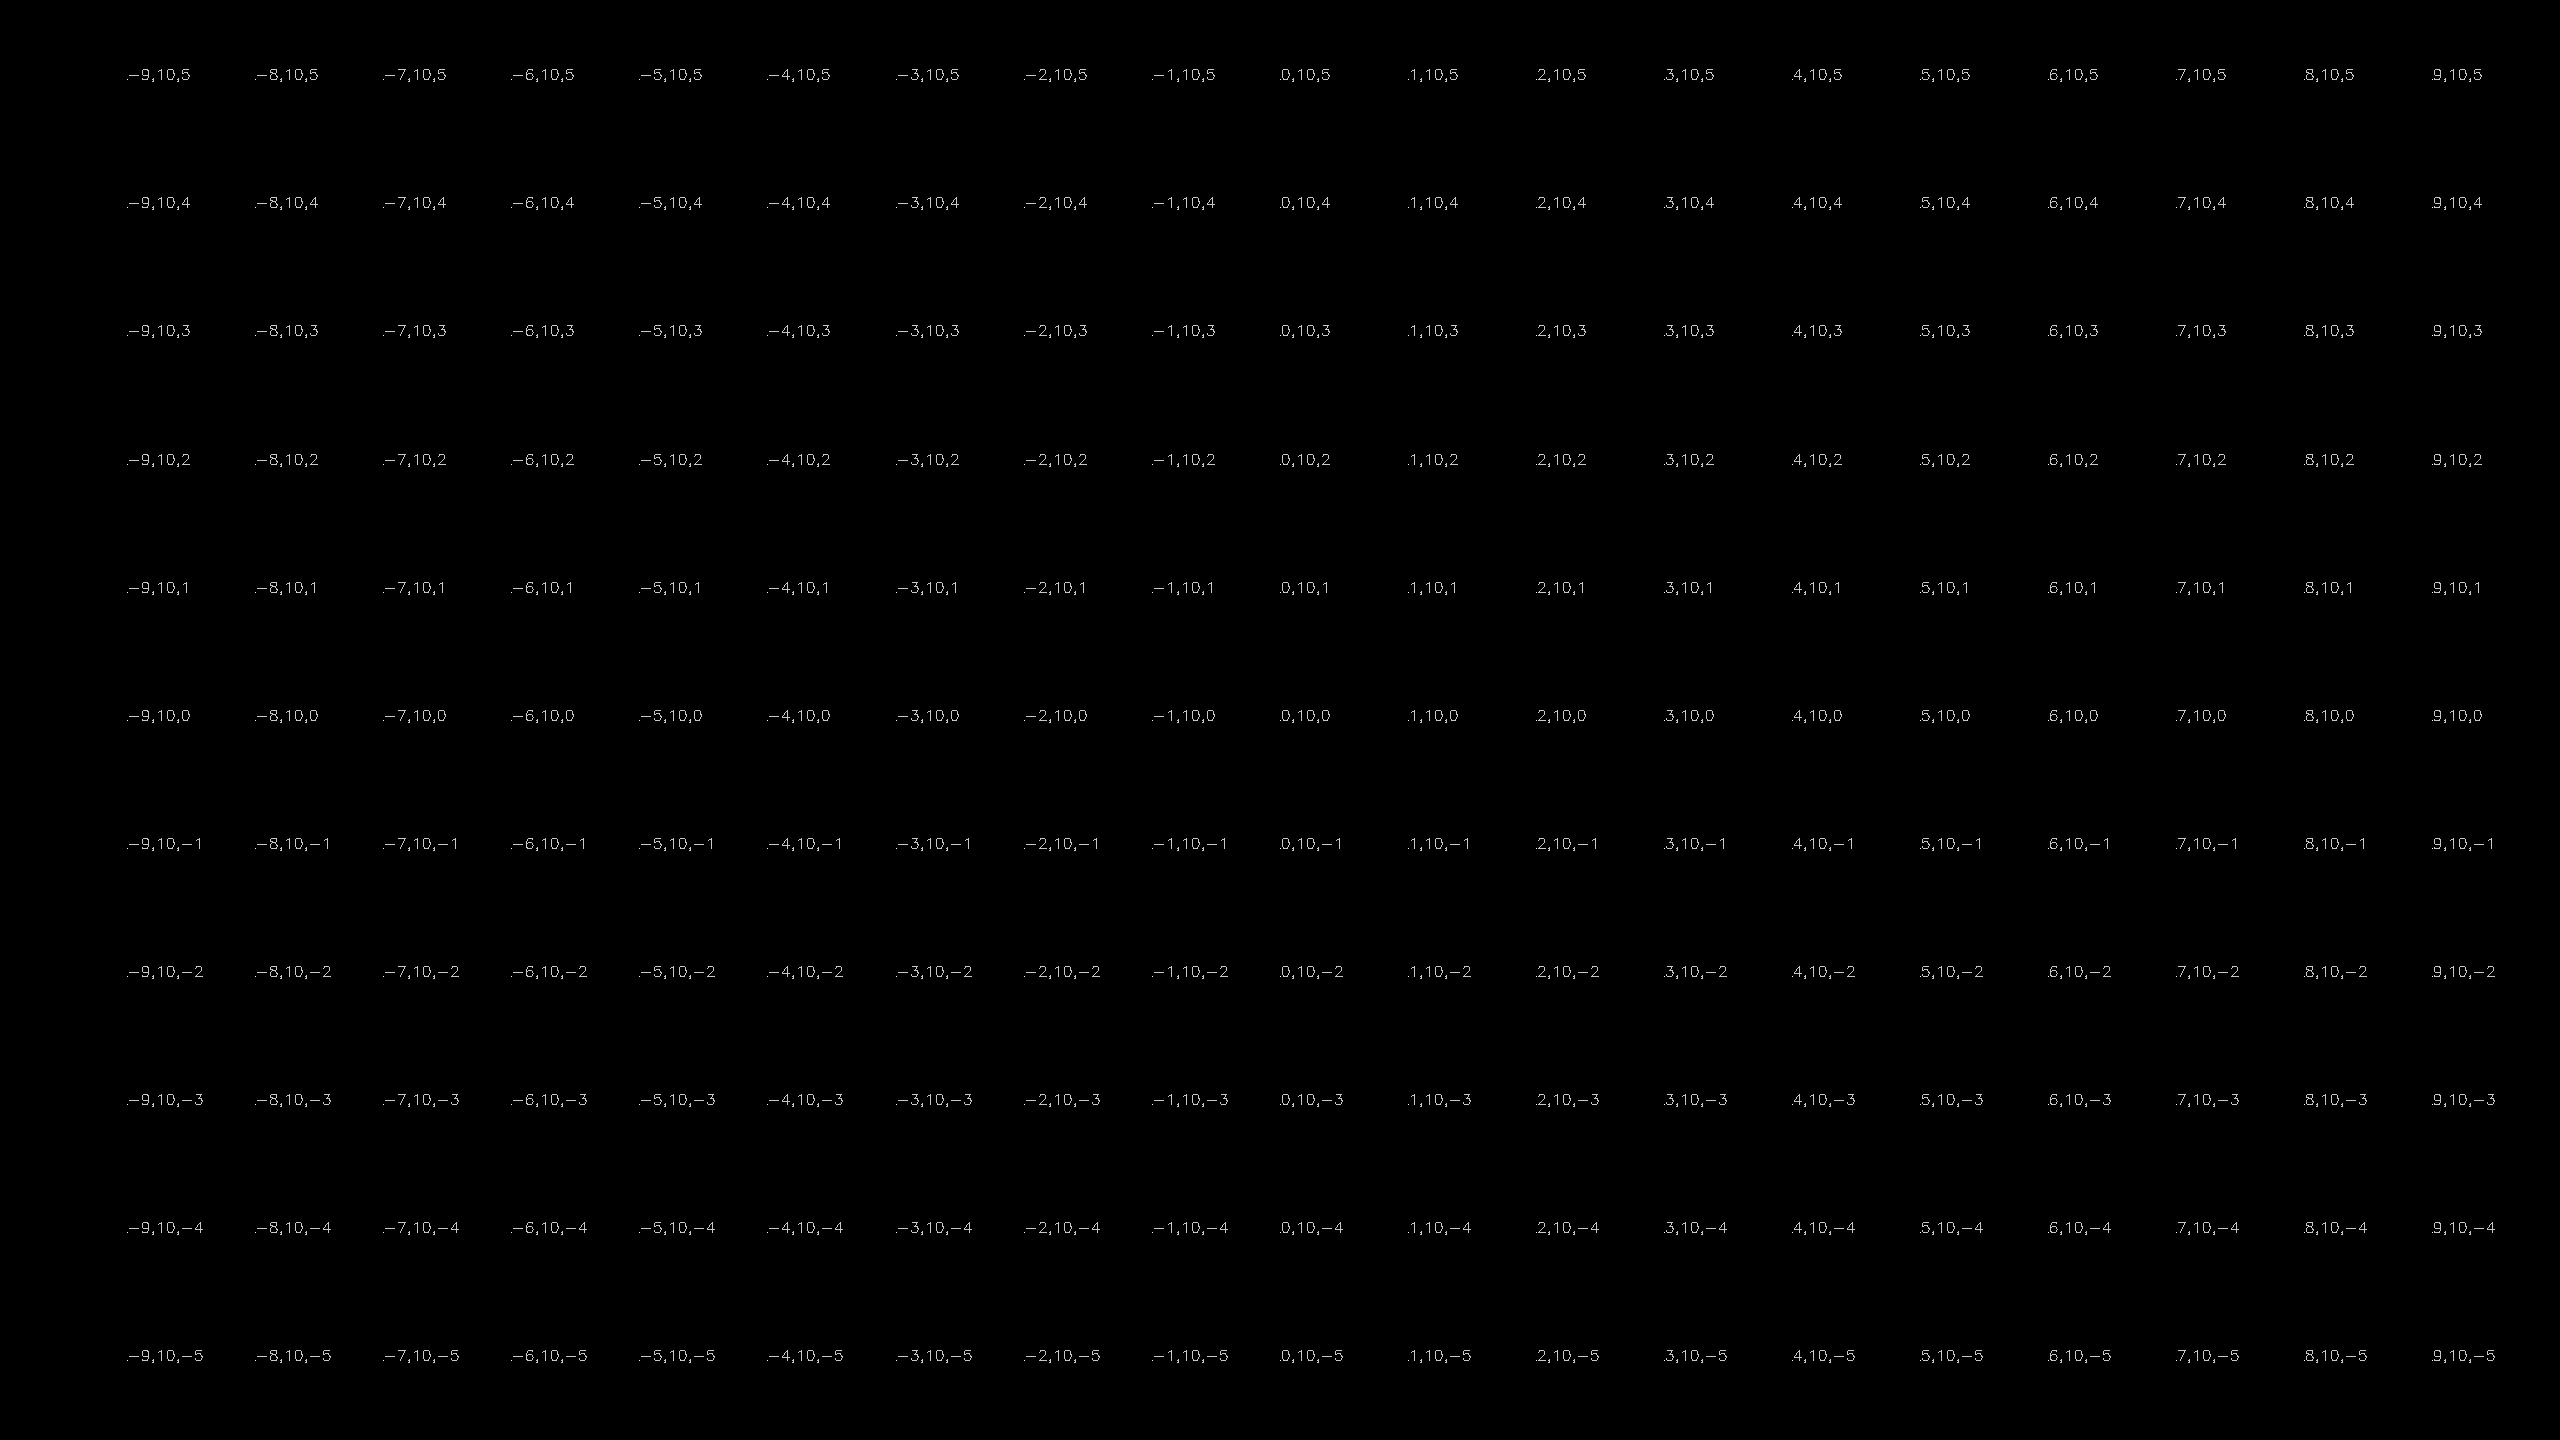
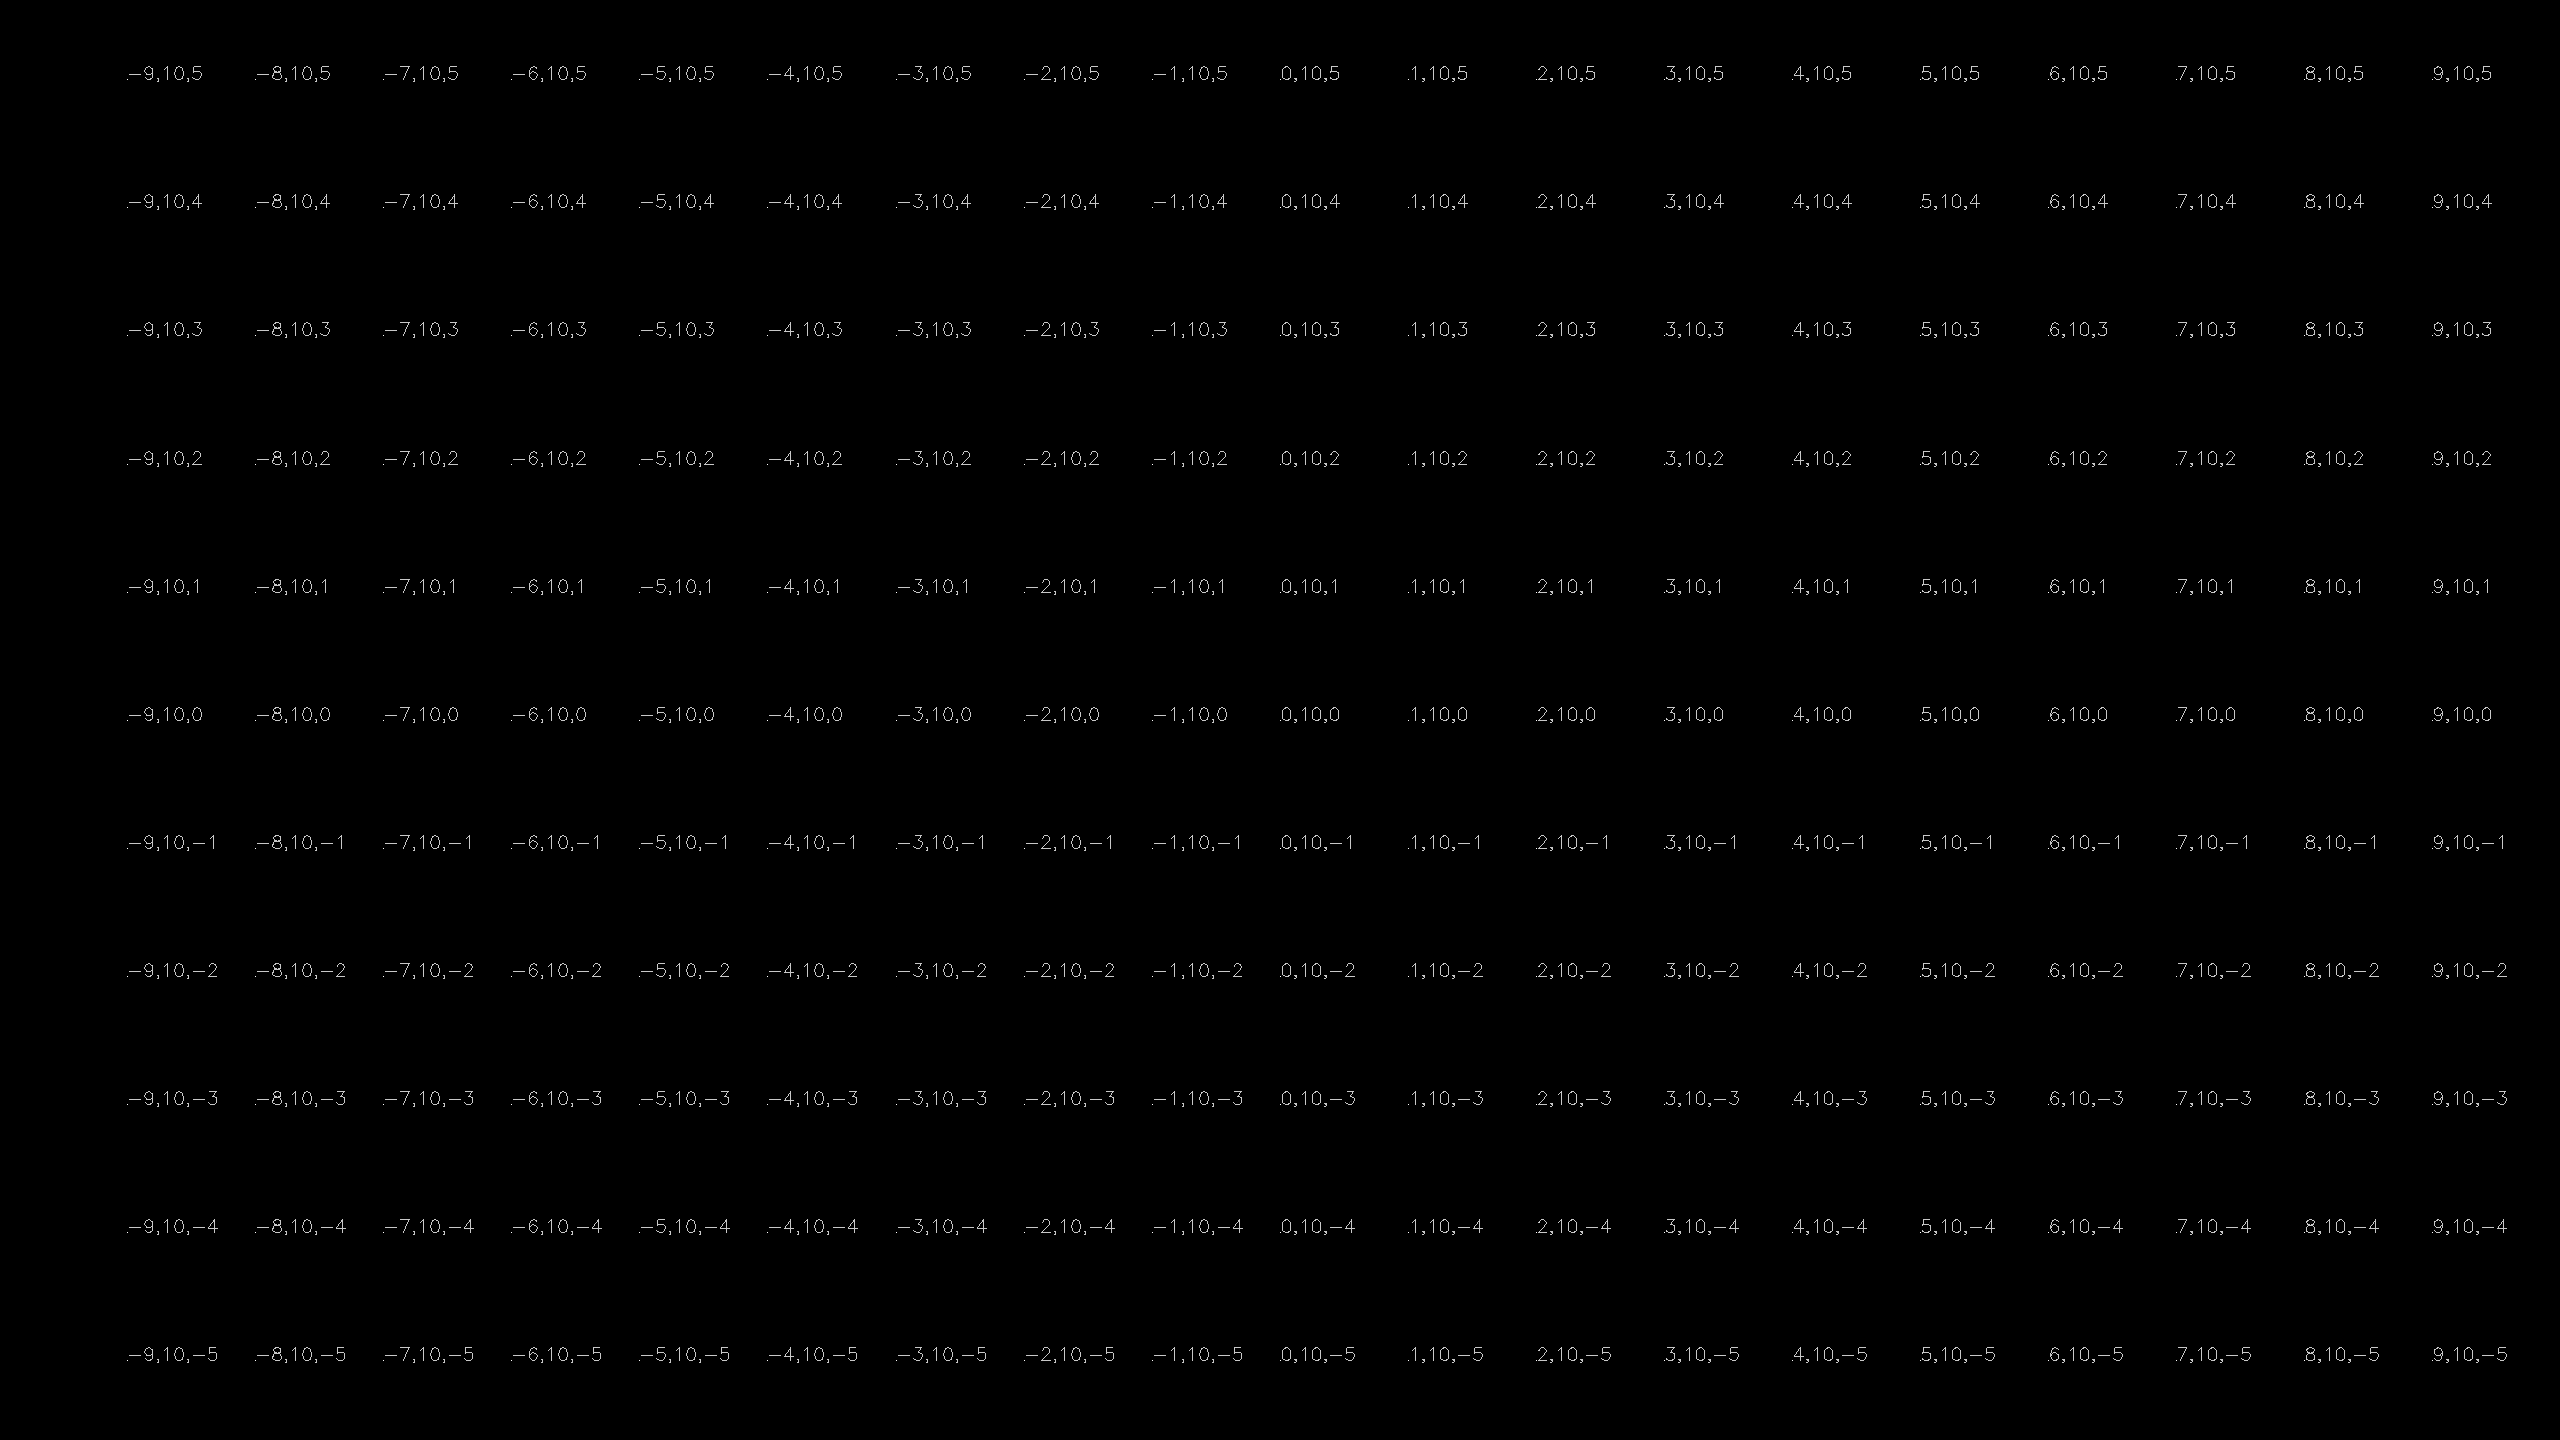
initial 3D triangulation using minimum eigenvalue working now!

diff --git a/measure_cube.py b/measure_cube.py
@@ -114,7 +114,7 @@ class Camera:
         im[ys, xs] = 255
         for i in range(enus.shape[0]):
             cv2.putText(im, ','.join(list(map(str, enus[i]))), (int(xs[i]), int(ys[i])), cv2.FONT_HERSHEY_SIMPLEX,
-                        .5, 200, thickness=1)
+                        .6, 200, thickness=1)
 
         return im, chosen_points_filt
 
@@ -176,8 +176,27 @@ class View:
         self.loc_enu = np.array([x, z, -y])
         self.cam = Camera(self.loc_enu, self.cam_quaternion, self.im_w, self.im_h)
 
-    # def get_keypoints(self):
-    #
+
+def vec2zeromat(xy):
+    x, y = xy
+    return np.array([[0, -1,  y],
+                     [1,  0, -x],
+                     [-y, x,  0]])
+
+
+def extract_3d_points(tracked_im_xys, cams):
+    num_views = len(cams)
+    im_xy_zero_mats = np.array([vec2zeromat(xy) for xy in tracked_im_xys])
+    a = np.vstack([np.dot(im_xy_zero_mats[i], cams[i].projection_matrix) for i in range(num_views)])
+    w, v = np.linalg.eig(np.dot(a.T, a))
+    idx = w.argmin()
+    match_error = w[idx]  # lower the eigenvalue, better the match
+    pred = v[idx]
+    c0, c1, c2 = pred[:3] / pred[3]
+    x, y, z = c2, c1, -c0
+    enu = [x, z, -y]
+    xyz = [x, y, z]
+    return xyz, enu, match_error
 
 
 if __name__ == '__main__':
@@ -204,4 +223,10 @@ if __name__ == '__main__':
     im1 = cam1.viz_plane(10, 1, 10)
     cv2.imwrite('im1.png', im1)
 
+    tracked_enu = 0, 10, 0  # result has to be close to this
+    ux0, uy0 = 640, 1360  # tracked points
+    ux1, uy1 = 1280, 720  # tracked points
+
+    pnts = np.array([[ux0, uy0], [ux1, uy1]])
+    xyzs, enus, sc = extract_3d_points(pnts, [cam0, cam1])
     k = 0
